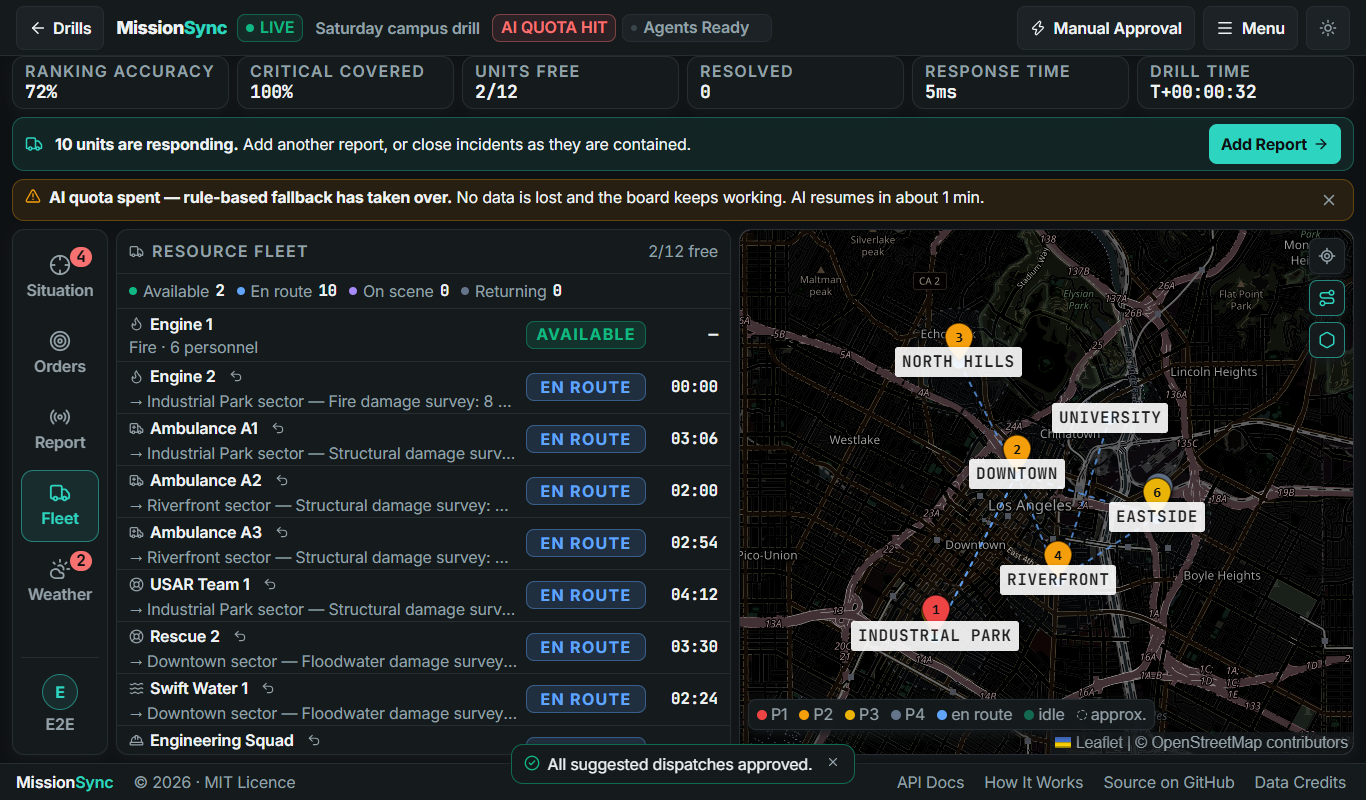
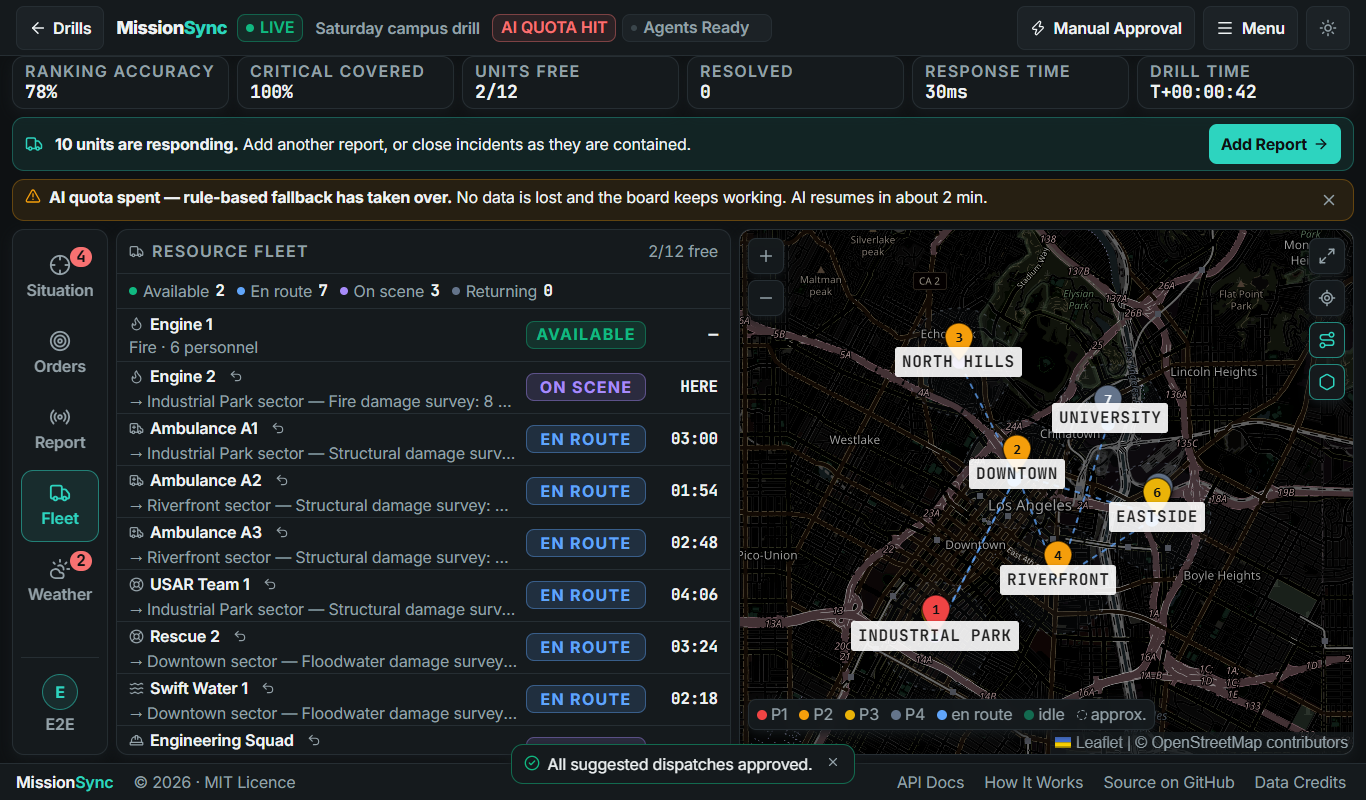
Map: zoom buttons, mouse-wheel zoom and a Show All Incidents button
The map had its zoom control and wheel zoom switched off, so the only ways to zoom were double-click and pinch. Added Zoom In / Zoom Out
(top left), enabled wheel zoom, and a button that frames every incident. The browser walk-through now zooms, wheels, drags and frames.

diff --git a/frontend/src/components/MapPanel.tsx b/frontend/src/components/MapPanel.tsx
@@ -2,7 +2,7 @@ import { useEffect, useMemo, useState } from 'react'
 import L from 'leaflet'
 import { Circle, CircleMarker, MapContainer, Marker, Polyline, TileLayer, Tooltip, useMap } from 'react-leaflet'
 import 'leaflet/dist/leaflet.css'
-import { Hexagon, LocateFixed, Route } from 'lucide-react'
+import { Hexagon, LocateFixed, Maximize2, Minus, Plus, Route } from 'lucide-react'
 import type { Incident, Resource, Tier } from '../types'
 import { STATUS_HEX, STATUS_LABEL, TIER_HEX, TIER_LABEL } from '../lib/format'
 import { SECTORS } from '../lib/sectors'
@@ -81,13 +81,20 @@ export default function MapPanel({
   const [routes, setRoutes] = useState(true)
   const [sectors, setSectors] = useState(true)
   const [recenter, setRecenter] = useState(0)
+  const [map, setMap] = useState<L.Map | null>(null)
   const selected = useMemo(() => incidents.find((i) => i.id === selectedId) ?? null, [incidents, selectedId])
   const byId = useMemo(() => new Map(incidents.map((i) => [i.id, i])), [incidents])
+
+  /** Zoom to show every incident at once (the quickest way to get your bearings after exploring). */
+  const showAll = () => {
+    if (!map || incidents.length === 0) return
+    map.flyToBounds(L.latLngBounds(incidents.map((i) => [i.lat, i.lon] as [number, number])), { padding: [48, 48], maxZoom: 15, duration: 0.6 })
+  }
 
   return (
     <div className={`relative h-full min-h-0 w-full ${theme === 'dark' ? 'tiles-dark' : 'tiles-light'}`}>
       {loading && <MapSkeleton />}
-      <MapContainer center={CENTER} zoom={13} scrollWheelZoom={false} zoomControl={false} className="h-full w-full" attributionControl>
+      <MapContainer ref={setMap} center={CENTER} zoom={13} minZoom={9} maxZoom={19} scrollWheelZoom zoomControl={false} className="h-full w-full" attributionControl>
         <TileLayer
           attribution={TILE_ATTRIBUTION}
           url={TILE_URL}
@@ -174,8 +181,21 @@ export default function MapPanel({
         })}
       </MapContainer>
 
+      {/* Zoom: buttons (and the mouse wheel, double-click, pinch, drag and the arrow / + / - keys) all work */}
+      <div className="absolute left-2 top-2 z-[1000] flex flex-col gap-1.5" role="group" aria-label="Zoom">
+        <button type="button" className={ctl} onClick={() => map?.zoomIn()} aria-label="Zoom In" title="Zoom In">
+          <Plus size={18} aria-hidden />
+        </button>
+        <button type="button" className={ctl} onClick={() => map?.zoomOut()} aria-label="Zoom Out" title="Zoom Out">
+          <Minus size={18} aria-hidden />
+        </button>
+      </div>
+
       {/* Floating controls */}
       <div className="absolute right-2 top-2 z-[1000] flex flex-col gap-1.5">
+        <button type="button" className={ctl} onClick={showAll} disabled={incidents.length === 0} aria-label="Show All Incidents" title="Show All Incidents">
+          <Maximize2 size={18} aria-hidden />
+        </button>
         <button type="button" className={ctl} onClick={() => setRecenter((n) => n + 1)} aria-label="Re-Center Map" title="Re-Center Map">
           <LocateFixed size={18} aria-hidden />
         </button>

diff --git a/README.md b/README.md
@@ -189,7 +189,7 @@ No secret is committed; `.env` is git-ignored and `.env.example` lists every nam
 | `backend/tests/test_hardening.py` | forged `X-Forwarded-For`, impossible ids, control characters, a refused audit line, sockets that close with their session, session cap, logout-all, account deletion, demo allowance, body limit, live-drill limit under concurrency, paused drills | 20 |
 | remaining backend | agents, orchestrator, dispatch rules, persistence, WebSocket hub, security headers (CSP, HSTS), frontend-fixture drift, simulator, data, static serving | 104 |
 | `frontend/src/**/*.test.*` | a slow server is not "signed out", account deletion, footer, account in the side rail, guards, inline validation, the one-click demo, optimistic create/rename/delete and approve with rollback, keyboard/ARIA, axe-core, WebSocket reconnect and snapshot ordering, no inline scripts under the CSP | 127 |
-| `scripts/e2e_screens.mjs` | the real app in a headless browser: the demo (asks before it creates anything), sign up → drill → approve → refresh → end → sign out; footer on every page, account pinned in the rail, and **no sideways scrolling** on every page and tab at 1366 px and 375 px | 37 checks |
+| `scripts/e2e_screens.mjs` | the real app in a headless browser: the demo (asks before it creates anything), sign up → drill → approve → refresh → end → sign out; footer on every page, account pinned in the rail, and **no sideways scrolling** on every page and tab at 1366 px and 375 px | 42 checks |
 
 **220 backend tests (93 % line coverage) and 127 frontend tests (89 % statements); CI enforces minimum coverage, ESLint and a dependency vulnerability scan.** Lighthouse on the sign-in page: desktop 98 / 100 / 100 / 100 (performance / accessibility / best practices / SEO), phone 74 / 100 / 100 / 100 on a simulated slow-4G, 4× slower CPU.
 
